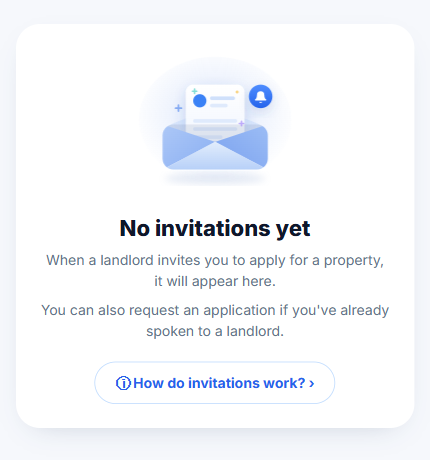
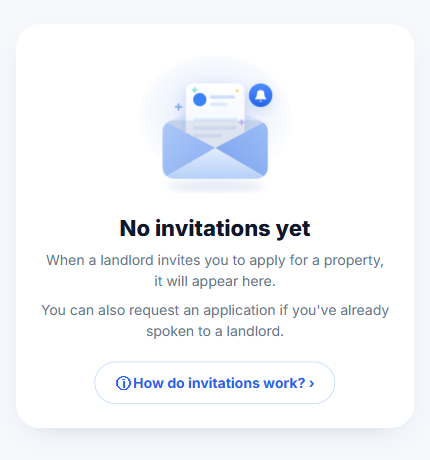
Applications: taller envelope so it no longer looks squashed
Give the illustration proper letter-envelope proportions (deeper body
and flap V) instead of the flat, wide shape.

Changed region(s): [[0.3628, 0.1826, 0.6349, 0.3957], [0.4535, 0.1826, 0.4837, 0.2435], [0.393, 0.213, 0.4233, 0.2739]]

diff --git a/packages/features/src/application/components/TenantApplicationsSection.tsx b/packages/features/src/application/components/TenantApplicationsSection.tsx
@@ -134,7 +134,7 @@ function InvitationEnvelope() {
             <stop offset="1" stopColor="#2563eb" />
           </linearGradient>
           <clipPath id="env-body">
-            <rect x="48" y="104" width="144" height="62" rx="16" />
+            <rect x="48" y="100" width="144" height="80" rx="16" />
           </clipPath>
           <filter id="env-soft" x="-40%" y="-40%" width="180%" height="180%">
             <feDropShadow dx="0" dy="6" stdDeviation="7" floodColor="#3b5bab" floodOpacity="0.16" />
@@ -146,10 +146,10 @@ function InvitationEnvelope() {
         <ellipse cx="120" cy="98" rx="104" ry="86" fill="url(#env-glow)" />
 
         {/* Gentle floating shadow (soft, not harsh) */}
-        <ellipse cx="120" cy="178" rx="68" ry="8" fill="#5c7fc0" opacity="0.16" filter="url(#env-blur)" />
+        <ellipse cx="120" cy="190" rx="66" ry="8" fill="#5c7fc0" opacity="0.16" filter="url(#env-blur)" />
 
         {/* Back flap hint behind the letter */}
-        <path d="M56 106 Q120 74 184 106 L184 120 L56 120 Z" fill="#cfe0fb" opacity="0.7" />
+        <path d="M56 102 Q120 70 184 102 L184 116 L56 116 Z" fill="#cfe0fb" opacity="0.7" />
 
         {/* Letter emerging from the envelope */}
         <g filter="url(#env-soft)">
@@ -164,11 +164,11 @@ function InvitationEnvelope() {
 
         {/* Envelope front — side flaps + centre pocket (clipped for rounded base) */}
         <g clipPath="url(#env-body)">
-          <path d="M48 104 L120 128 L48 166 Z" fill="url(#env-left)" />
-          <path d="M192 104 L120 128 L192 166 Z" fill="url(#env-right)" />
-          <path d="M48 166 L120 128 L192 166 Z" fill="url(#env-pocket)" />
+          <path d="M48 100 L120 138 L48 180 Z" fill="url(#env-left)" />
+          <path d="M192 100 L120 138 L192 180 Z" fill="url(#env-right)" />
+          <path d="M48 180 L120 138 L192 180 Z" fill="url(#env-pocket)" />
           {/* subtle inner shadow where the letter meets the opening */}
-          <path d="M48 104 L120 128 L192 104 Z" fill="#2b3f6b" opacity="0.10" />
+          <path d="M48 100 L120 138 L192 100 Z" fill="#2b3f6b" opacity="0.10" />
         </g>
 
         {/* Notification badge */}
